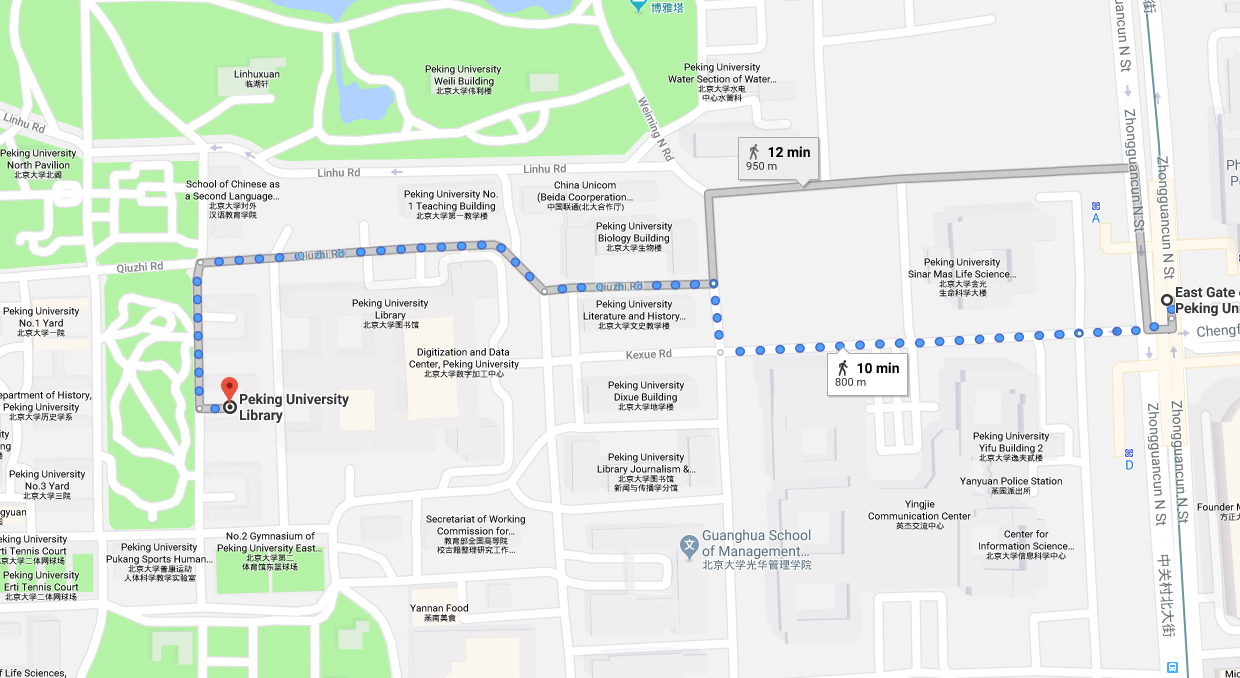
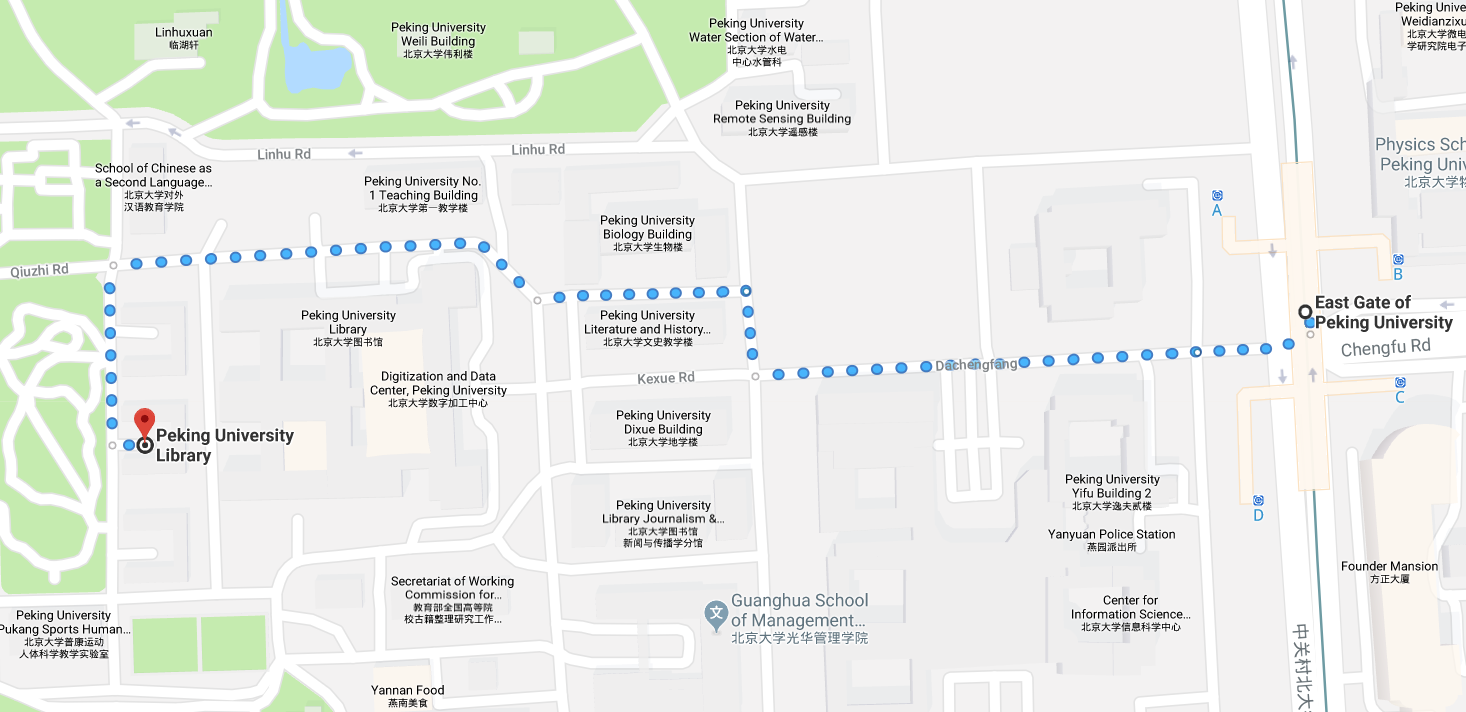
update style

diff --git a/.vuepress/config.js b/.vuepress/config.js
@@ -1,5 +1,5 @@
 module.exports = {
-    title: 'IWRCV2019',
+    title: 'The 13th International Workshop on Robust Computer Vision',
     description: 'IWRCV2019 - We are waiting for you here',
     base: '/iwrcv2019/',
     themeConfig: {
@@ -9,19 +9,23 @@ module.exports = {
           { text: 'Committee', link: '/committee' },
           { text: 'Program', link: '/program' },
           { text: 'Venue', link: '/venue' },
-          { text: 'Registration', link: '/registeration' },
-          { text: 'Sponsor', link: '/sponsor' },
+          { text: 'Registration', link: '/registration' },
           { text: 'Contact', link: '/contact'}
         ],
         sidebar: [
-          ['/', 'Information'],
-          '/committee',
-          '/program',
-          '/venue',
-          '/registeration',
-          '/sponsor',
-          '/contact',
-          '/comment'
+          {
+            title: 'Menu',
+            collapsable: false,
+            children: [
+              ['/', 'Information'],
+              '/committee',
+              '/program',
+              '/venue',
+              '/registration',
+              '/contact',
+              '/comment'
+            ]
+          },
         ]
       }
 }

diff --git a/.vuepress/enhanceApp.js b/.vuepress/enhanceApp.js
@@ -38,7 +38,6 @@ function integrateGitalk(router) {
       }
     }
     function renderGitalk(fullPath) {
-      console.log(fullPath, fullPath.startsWith('/comment.html'), !fullPath.startsWith('/comment.html'))   
       if (!fullPath.startsWith('/comment.html')) return;
       const gitalk = new Gitalk({
         clientID: '015177d5625e00523ef6',

diff --git a/venue.md b/venue.md
@@ -1,6 +1,7 @@
 # Venue
 
 ## Location
+[5th Yard, Peking University, Haidian, China](https://goo.gl/maps/3vzHh36D7KP2)
 
 Some pictures, TBD.
 
@@ -15,7 +16,7 @@ It may cost around 1 hour and about 100RMB.
 - Take the  Airport Express  to the "SanYuanQiao (三元桥)" Station
 - Transfer to  Line 10  to the "HaiDianHuangZhuang (海淀黄庄)" Station
 - Transfer to  Line 4  for the "East Gate of Peking University (北京大学东门)" Station
-That will cost about 1.5 hours. For more details, see the map of Beijing Subway.
+That will cost about 1.5 hours. For more details, see [the map of Beijing Subway](http://en.bcia.com.cn/traffic/airbus/index.shtml).
 
 #### By Bus
 - Take the Airport Shuttle Bus  Line 5 , to ZhongGuanCun (中关村) Stop
@@ -24,8 +25,10 @@ That will cost about 1.5 hours. For more details, see the map of Beijing Subway.
 That will cost about 2.5 hours. For more details, see the homepage of the Airport Shuttle Bus.
 
 ## Map
+The route from the East Gate of Peking University to the venue.
+
 ![Google Map](./images/google-map.png)
 
-[Google Map](https://www.google.com/maps/dir/East+Gate+of+Peking+University,+Haidian+Qu,+Beijing+Shi,+China/39.991656,116.3087305/@39.9923455,116.3099882,17z/data=!3m1!4b1!4m9!4m8!1m5!1m1!1s0x35f056ae7f23816b:0x1bcbb3f0d4ea5490!2m2!1d116.315843!2d39.992274!1m0!3e2)
+[Google Map](https://goo.gl/maps/xe3EZRu1U892)
 
 [Baidu Map](https://j.map.baidu.com/Vu6I2)

diff --git a/README.md b/README.md
@@ -1,24 +1,21 @@
-# The 13th International Workshop on Robust Computer Vision
+# Information
 ## Date
 
 Jan. 12-13, 2019
 
 ## Venue
 
-Peking University, China
+**Peking University, China**
 
-## Best Poster Presentation Award
-
+*Click [here](/venue.html) for detail.*
 
 ## Instruction for presenters
 
 ### Oral presenters
-Format: 15 min. presentation + 4 min. questions
+Format: **15 min.** presentation + **4 min.** questions
 
 ### Spotlight presenters
-Format: 1 min. presentation; no question
-
-Slide template
+Format: **1 min.** presentation; **no** question
 
 ### Poster presenters
 
@@ -32,6 +29,7 @@ This IWRCV 2019 website opened.
 
 ## Contact
 
-### IWRCV 2019 organizers:
+[iwrcv2019@cis.pku.edu.cn](mailto:iwrcv2019@cis.pku.edu.cn)
 
-[XXX@pku.edu.cn](mailto:XXX@pku.edu.cn)
+## Comment 
+You can leave messages on this [page](/comment.html), if you want to share something with others online.  

diff --git a/committee.md b/committee.md
@@ -1,12 +1,44 @@
 # Committee
 ## General Chairs
+Hongbin Zha (Peking Univ., China)
 
-TBD
+In So Kweon (KAIST, Korea)
+
+Yasushi Yagi (Osaka Univ., Japan)
+
+Takeshi Oishi (Univ. Of Tokyo, Japan)
+
 
 ## Program Chairs
+Huijing Zhao (Peking Univ., China)
 
-TBD
+François Rameau (KAIST, Korea)
+
+Yasushi Makihara (Osaka Univ., Japan)
+
+Menandro Roxas (Univ. Of Tokyo, Japan)
+
 
 ## Local Chairs
+Boxin Shi (Peking Univ., China)
 
-TBD
+Linong Cui (Peking Univ., China)
+
+Liping Meng (Peking Univ., China)
+
+
+## Local Committee Members
+Xiaoliang Ju (Peking Univ., China)
+
+Liangwei Xu (Peking Univ., China)
+
+Haifang Qin (Peking Univ., China)
+
+Chengxiao Yu (Peking Univ., China)
+
+Yuqiang Tong (Peking Univ., China)
+
+Yajie Xing (Peking Univ., China)
+
+Yongjie Shi (Peking Univ., China)
+

diff --git a/contact.md b/contact.md
@@ -1,5 +1,5 @@
 # Contact
 
-## IWRCV 2019 organizers:
+For any questions or suggestions, please contact via email:
 
-[XXX@pku.edu.cn](mailto:XXX@pku.edu.cn)
+[iwrcv2019@cis.pku.edu.cn](mailto:iwrcv2019@cis.pku.edu.cn)

diff --git a/menu.md b/menu.md
@@ -1,0 +1,6 @@
+# Menu
+## [Committee](/committee.html)
+## [Program](/program.html)
+## [Venue](/venue.html)
+## [Registration](/registration.html)
+## [Contact](/contact.html)

diff --git a/registration.md b/registration.md
@@ -1,4 +1,4 @@
-# Registeration
+# Registration
 
 ## Registration fee
 

diff --git a/program.md b/program.md
@@ -1,3 +1,3 @@
 # Program
 
-# TBD
+TBD
